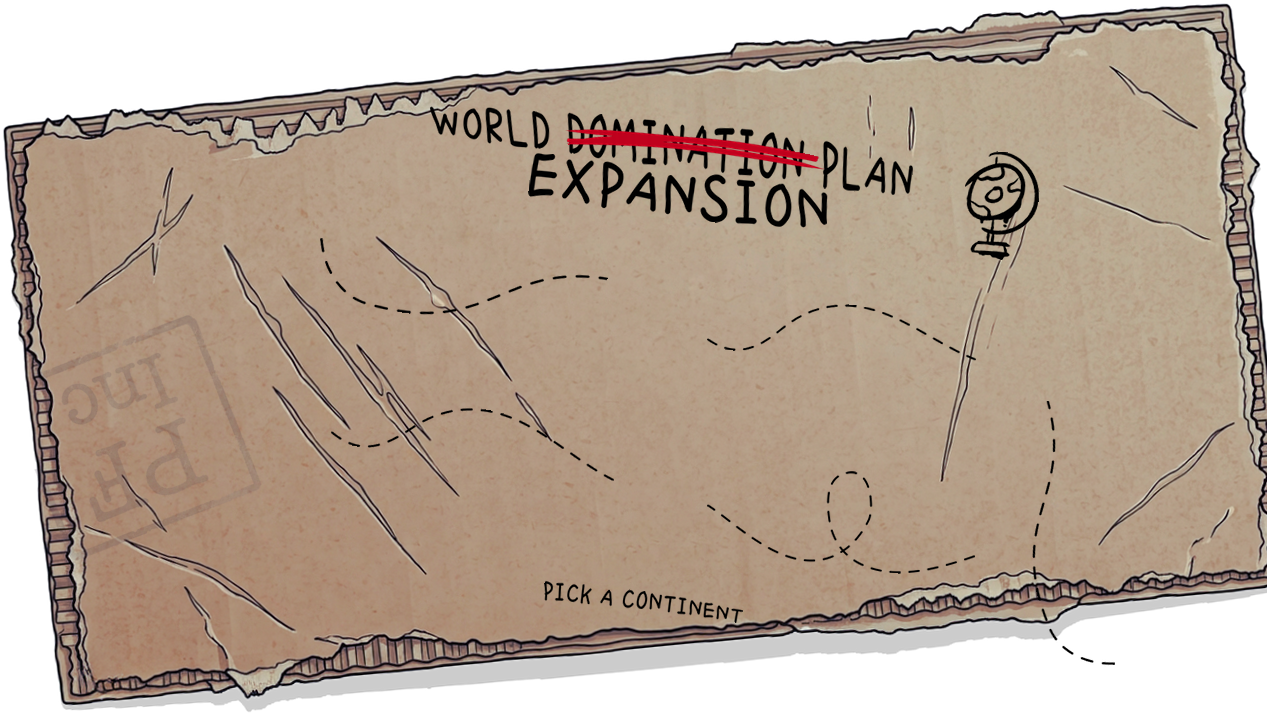
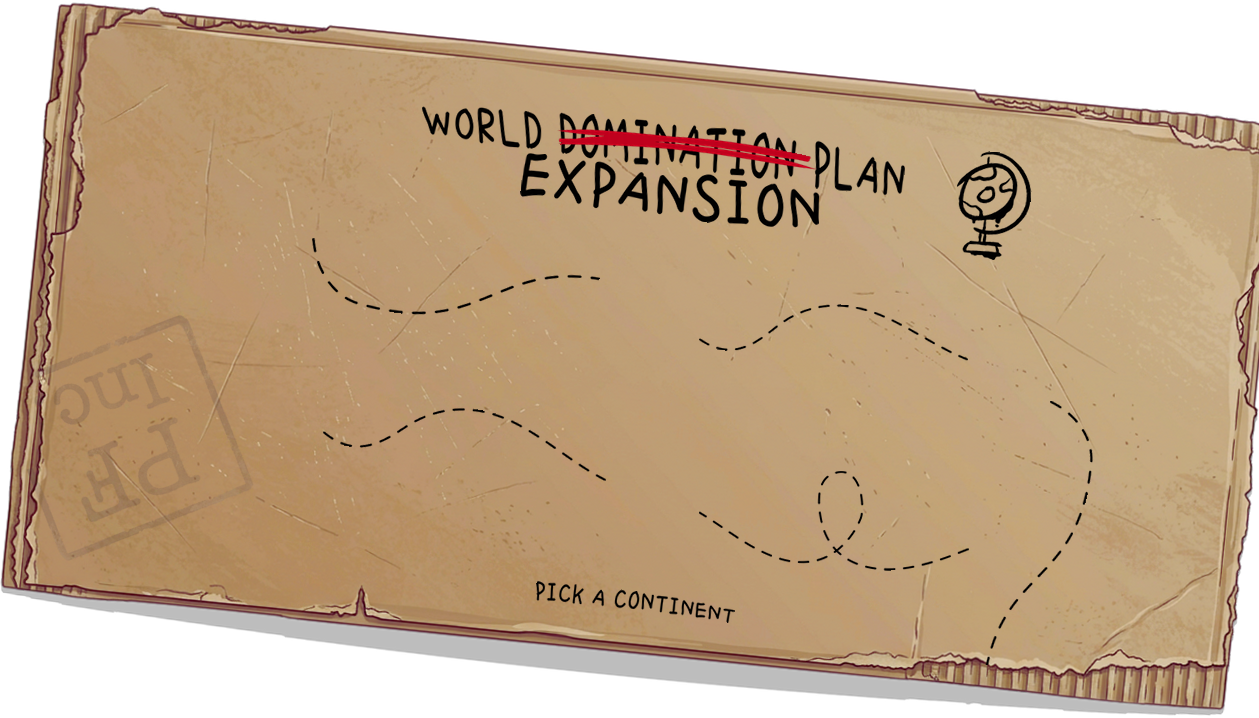
HQ: fix the map tilt, slogan font, cat faces and desk width
Four fixes on the branch picker:

- The map and the taped note leaned the wrong way. My compositor treated a
  mirrored layer's residual angle as rot-180 when it is 180-rot; mirroring
  negates the apparent tilt, so every mirrored layer came out flipped. Map
  now measures +5.6 deg against the design's +5.5 (was -4.9).
- The "box full of fur & purrs" slogan is Providence Sans, not Handelson.
- Deck faces use the design's own cat avatars, sliced out of the page-4 strip
  into assets/ui/face-{grey,tabby,siamese,orange}.png, instead of the in-game
  cat art. 'black' reads as siamese, same as catArtInfo does.
- The desk edge was a child of the 16:9 stage, so it stopped short of the
  screen on wide viewports. It is now a sibling, full-bleed.

diff --git a/styles.css b/styles.css
@@ -8,6 +8,7 @@
 @font-face{font-family:'Lazydog';src:url('assets/fonts/Lazydog.woff2') format('woff2');font-display:swap;}
 @font-face{font-family:'Staatliches';src:url('assets/fonts/Staatliches-Regular.woff2') format('woff2');font-display:swap;}
 @font-face{font-family:'Handelson';src:url('assets/fonts/Handelson-One.woff2') format('woff2');font-display:swap;}
+@font-face{font-family:'Providence Sans';src:url('assets/fonts/ProvidenceSansPro.woff2') format('woff2');font-display:swap;}
 
 :root{
   --bg:#bbc0c9;--panel:#ffffff;--navy:#3a5070;--navy2:#2a3a55;
@@ -901,9 +902,9 @@ body:has(#s-menu.on) #btn-dev-float{display:none;}
   transform:translate(calc(var(--px) * -.3), calc(var(--py) * -.3));
 }
 .hq-stage>*{position:absolute;}
-.hq-map {left:34.01%;top: 3.24%;width:65.99%;height:66.02%;pointer-events:none;--d:.35;
+.hq-map {left:34.43%;top: 3.24%;width:65.57%;height:66.48%;pointer-events:none;--d:.35;
          transform:translate(calc(var(--px) * var(--d)), calc(var(--py) * var(--d)));}
-.hq-note{left:29.58%;top:10.74%;width:14.95%;height:26.85%;pointer-events:none;--d:.75;
+.hq-note{left:29.79%;top:10.00%;width:14.27%;height:27.59%;pointer-events:none;--d:.75;
          transform:translate(calc(var(--px) * var(--d)), calc(var(--py) * var(--d)));}
 
 /* ── title plate: navy slab, white card overhanging it, flavour underneath ── */
@@ -915,7 +916,7 @@ body:has(#s-menu.on) #btn-dev-float{display:none;}
   box-shadow:0 0 0 0.17cqw #fdfcff;display:flex;align-items:center;justify-content:center;}
 .hq-plate-card img{width:86%;}
 .hq-plate-flav{position:absolute;left:8%;right:8%;bottom:7%;text-align:left;
-  font-family:'Handelson',cursive;font-size:1.5cqw;color:rgba(255,255,255,.62);}
+  font-family:'Providence Sans',cursive;font-size:1.35cqw;color:rgba(255,255,255,.62);}
 
 .hq-paw{left:1.90%;top:3.70%;width:4.3%;height:7.6%;padding:0;cursor:inherit;
   background:#f6e379;border:0.17cqw solid #17151c;border-radius:1.0cqw;
@@ -944,8 +945,10 @@ body:has(#s-menu.on) #btn-dev-float{display:none;}
   pointer-events:none;transition:left .22s cubic-bezier(.2,.7,.3,1),top .22s cubic-bezier(.2,.7,.3,1);}
 
 /* ── branch rail along the desk edge ── */
-.hq-desk{left:0;right:0;bottom:0;height:9.5%;background:linear-gradient(#464b6d,#3d4260);
-  border-top:0.17cqw solid #2a2b3d;}
+/* full-bleed: anchored to the screen, not the 16:9 stage, or it stops short
+   of the edges on wide viewports */
+.hq-desk{position:absolute;left:0;right:0;bottom:0;height:9.5%;z-index:3;
+  background:linear-gradient(#464b6d,#3d4260);border-top:2px solid #2a2b3d;}
 .hq-rail{left:2%;right:2%;bottom:0;height:47%;display:flex;align-items:flex-end;
   justify-content:space-evenly;gap:1.6cqw;padding:0 1cqw;}
 

diff --git a/js/branches.js b/js/branches.js
@@ -85,12 +85,16 @@ function hqCityCol(br){
   return HQ_CITY_COLS[h%HQ_CITY_COLS.length];
 }
 
+// Deck faces use the design's own cat avatars (assets/ui/face-*.png), sliced
+// out of the strip on deck page 4. 'black' has no avatar of its own and reads
+// as the siamese one, same as the in-game cat art does.
+const HQ_FACE={orange:'orange',grey:'grey',gray:'grey',tabby:'tabby',siamese:'siamese',black:'siamese'};
 function hqDeckFaces(br){
   const deck=DECKS[br.deck];
   const types=(deck&&deck.ty&&deck.ty.length)?deck.ty:['orange'];
   return types.slice(0,4).map(t=>{
-    const info=(typeof catArtInfo==='function')?catArtInfo('L',t):null;
-    return info?`<img src="${info.src}" alt="${t} cat">`:'';
+    const f=HQ_FACE[String(t).toLowerCase()];
+    return f?`<img src="assets/ui/face-${f}.png" alt="${t} cat">`:'';
   }).join('');
 }
 

diff --git a/index.html b/index.html
@@ -112,8 +112,8 @@
     <div class="hq-purse sp-mon"><img src="assets/ui/icon-box.png" alt=""><span class="hq-purse-pill"><span id="br-cash">0</span></span></div>
 
     <div class="hq-rail" id="hq-rail"></div>
-    <div class="hq-desk"></div>
   </div>
+  <div class="hq-desk"></div>
 </div>
 
 <!-- THE WORK WEEK (calendar hub between rounds, see js/calendar.js) -->
